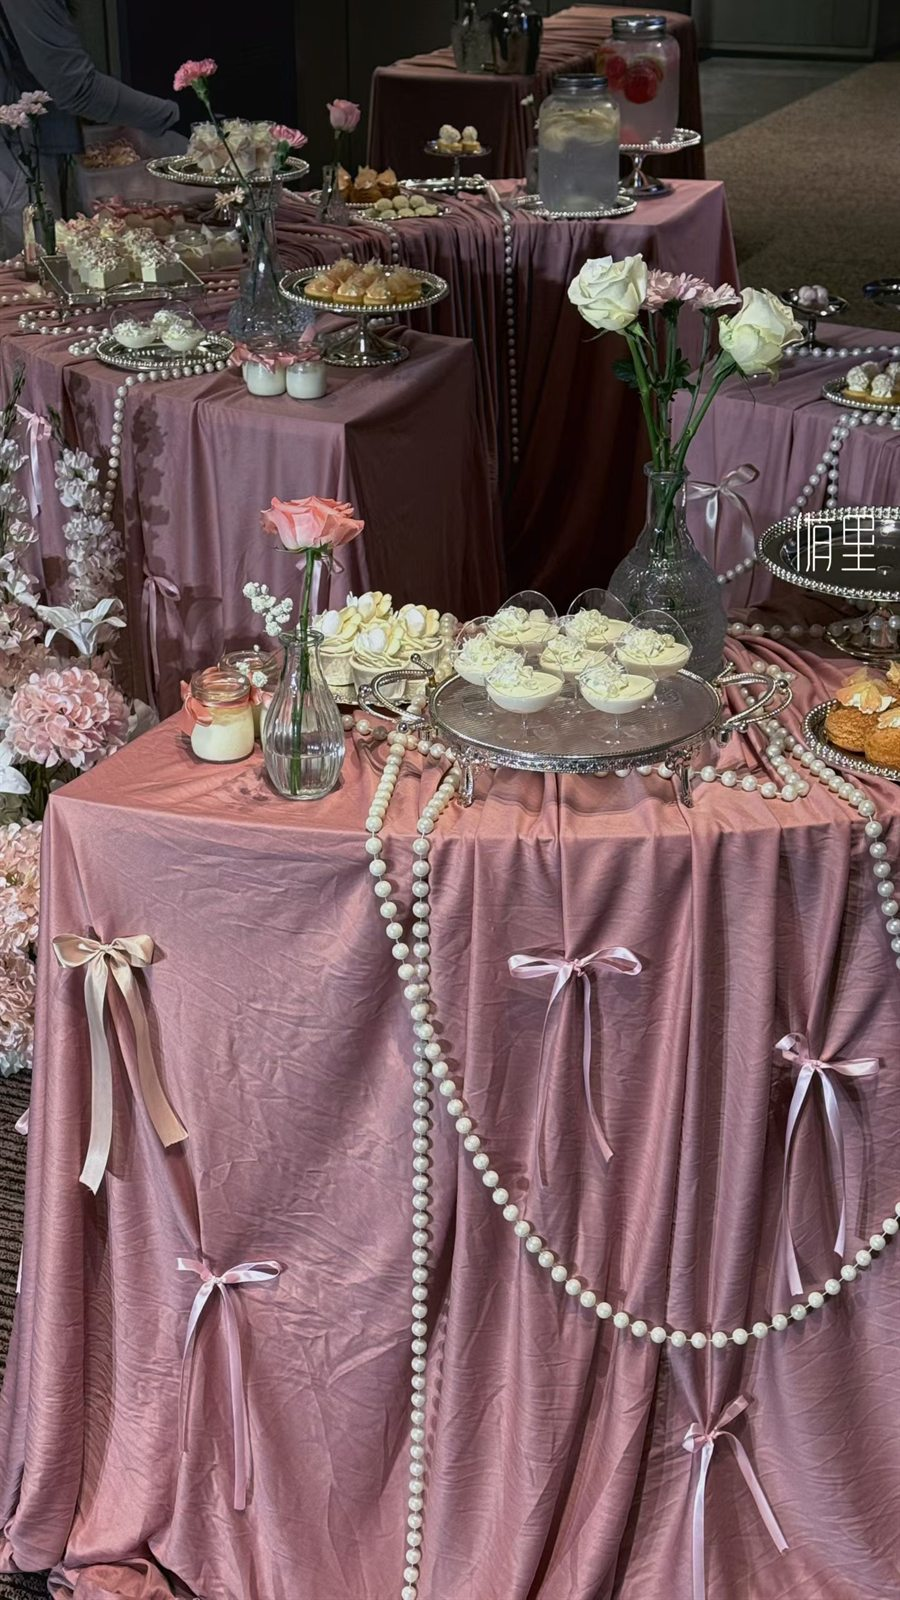
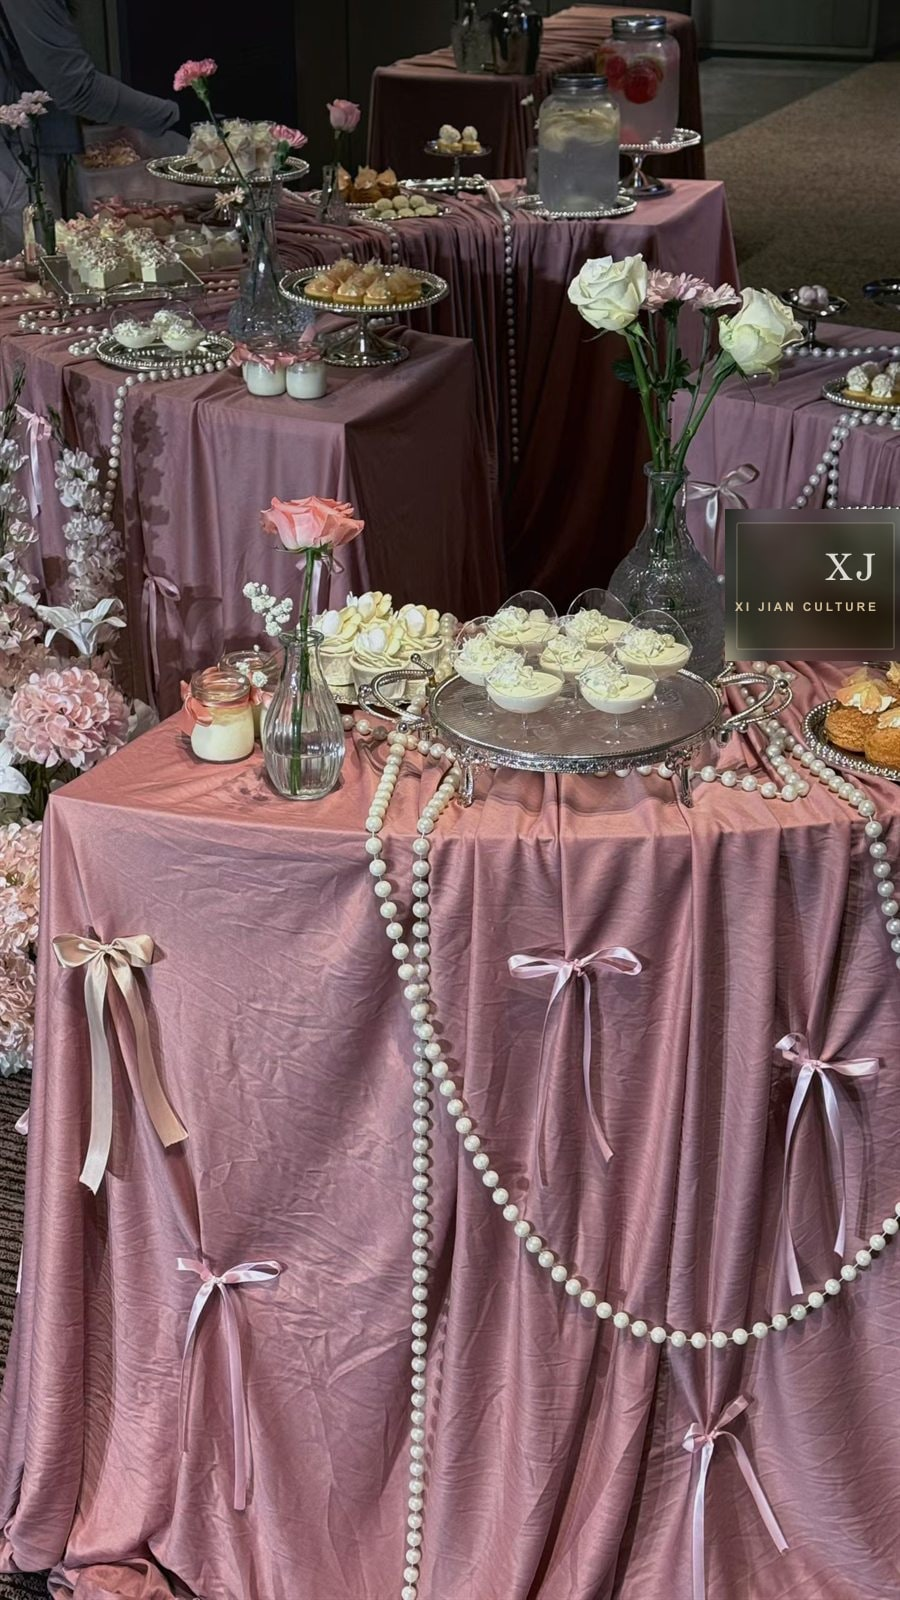
Add image-led service navigation

Changed region(s): [[0.8089, 0.3125, 1.0, 0.4375]]

diff --git a/styles.css b/styles.css
@@ -1305,7 +1305,7 @@ h3 {
 
 .hero-content {
   display: grid;
-  grid-template-columns: minmax(0, 1fr) minmax(22rem, 0.48fr);
+  grid-template-columns: minmax(0, 0.82fr) minmax(34rem, 0.72fr);
   gap: 2rem;
   align-items: end;
   padding-bottom: 3rem;
@@ -1358,22 +1358,70 @@ h3 {
   position: relative;
   display: grid;
   grid-template-columns: repeat(2, minmax(0, 1fr));
-  gap: 0.55rem;
+  gap: 0.65rem;
 }
 
 .hero-service-links a {
+  position: relative;
   display: grid;
   gap: 0.15rem;
-  min-height: 4.35rem;
-  align-content: center;
+  min-height: 7.4rem;
+  align-content: end;
+  overflow: hidden;
   border: 1px solid rgba(255, 253, 248, 0.16);
   border-radius: 0.45rem;
-  padding: 0.72rem;
-  background: rgba(255, 253, 248, 0.07);
+  padding: 0.85rem;
+  background: rgba(255, 253, 248, 0.08);
+  isolation: isolate;
   transition:
     transform 180ms ease,
     border-color 180ms ease,
     background 180ms ease;
+  animation: serviceCardBreathe 5.8s ease-in-out infinite;
+}
+
+.hero-service-links a:nth-child(2n) {
+  animation-delay: 0.7s;
+}
+
+.hero-service-links a:nth-child(3n) {
+  animation-delay: 1.2s;
+}
+
+.hero-service-links img {
+  position: absolute;
+  inset: 0;
+  z-index: -2;
+  width: 100%;
+  height: 100%;
+  object-fit: cover;
+  filter: saturate(0.92) contrast(1.04) brightness(0.68);
+  transform: scale(1.02);
+  transition: transform 700ms ease, filter 700ms ease;
+}
+
+.hero-service-links a::before {
+  position: absolute;
+  inset: 0;
+  z-index: -1;
+  background:
+    linear-gradient(180deg, rgba(20, 24, 22, 0.1), rgba(20, 24, 22, 0.78)),
+    linear-gradient(90deg, rgba(20, 24, 22, 0.55), rgba(20, 24, 22, 0.08));
+  content: "";
+}
+
+.hero-service-links a::after {
+  position: absolute;
+  right: 0.75rem;
+  top: 0.7rem;
+  color: rgba(244, 223, 183, 0.82);
+  content: "→";
+  font-weight: 800;
+  opacity: 0;
+  transform: translateX(-0.25rem);
+  transition:
+    opacity 180ms ease,
+    transform 180ms ease;
 }
 
 .hero-service-links a:hover,
@@ -1383,12 +1431,34 @@ h3 {
   transform: translateY(-2px);
 }
 
-.hero-service-links strong,
+.hero-service-links a:hover img,
+.hero-service-links a:focus-visible img {
+  filter: saturate(1.04) contrast(1.06) brightness(0.78);
+  transform: scale(1.07);
+}
+
+.hero-service-links a:hover::after,
+.hero-service-links a:focus-visible::after {
+  opacity: 1;
+  transform: translateX(0);
+}
+
+.hero-service-links strong {
+  color: var(--paper);
+  font-size: 1rem;
+  text-shadow: 0 0.45rem 1rem rgba(0, 0, 0, 0.36);
+}
+
 .service-map-grid strong {
   font-size: 0.96rem;
 }
 
-.hero-service-links span,
+.hero-service-links span {
+  color: rgba(255, 253, 248, 0.72);
+  font-size: 0.78rem;
+  text-shadow: 0 0.35rem 0.9rem rgba(0, 0, 0, 0.32);
+}
+
 .service-map-grid span {
   color: rgba(255, 253, 248, 0.68);
   font-size: 0.78rem;
@@ -1604,6 +1674,17 @@ h3 {
   100% {
     opacity: 0;
     transform: translateX(24%);
+  }
+}
+
+@keyframes serviceCardBreathe {
+  0%, 100% {
+    box-shadow: inset 0 1px 0 rgba(255, 253, 248, 0.08);
+  }
+  50% {
+    box-shadow:
+      inset 0 1px 0 rgba(255, 253, 248, 0.16),
+      0 0.7rem 1.5rem rgba(0, 0, 0, 0.16);
   }
 }
 

diff --git a/index.html b/index.html
@@ -112,14 +112,38 @@
 
           <aside class="hero-service-panel" aria-label="快速选择婚礼服务" data-reveal>
             <span class="panel-kicker">快速入口</span>
-            <h2>先从最关心的服务开始</h2>
+            <h2>六大业务，按需求直接进入</h2>
             <div class="hero-service-links">
-              <a href="#service-hall"><strong>婚礼堂</strong><span>看场地、桌数与档期</span></a>
-              <a href="#service-custom"><strong>高端定制婚礼</strong><span>方案、预算与主题</span></a>
-              <a href="#service-dress"><strong>婚纱礼服</strong><span>主纱、出门纱、敬酒服</span></a>
-              <a href="#service-makeup"><strong>化妆造型</strong><span>新娘跟妆、妈妈妆、伴娘妆</span></a>
-              <a href="#service-photo"><strong>摄影摄像</strong><span>跟拍、婚礼电影、快剪</span></a>
-              <a href="#service-host"><strong>婚礼主持</strong><span>仪式节奏与现场控场</span></a>
+              <a href="#service-hall">
+                <img src="assets/real/hall-gilded-stage.jpg" alt="" loading="eager" />
+                <strong>婚礼堂</strong>
+                <span>看场地、桌数与档期</span>
+              </a>
+              <a href="#service-custom">
+                <img src="assets/real/case-crystal-aisle.jpg" alt="" loading="eager" />
+                <strong>高端定制婚礼</strong>
+                <span>方案、预算与主题</span>
+              </a>
+              <a href="#service-dress">
+                <img src="assets/bridal/bridal-hero-couture.jpg" alt="" loading="eager" />
+                <strong>婚纱礼服</strong>
+                <span>主纱、出门纱、敬酒服</span>
+              </a>
+              <a href="#service-makeup">
+                <img src="assets/bridal/bridal-soft-silhouette.jpg" alt="" loading="eager" />
+                <strong>化妆造型</strong>
+                <span>新娘跟妆、妈妈妆、伴娘妆</span>
+              </a>
+              <a href="#service-photo">
+                <img src="assets/real/production-light-test.jpg" alt="" loading="eager" />
+                <strong>摄影摄像</strong>
+                <span>跟拍、婚礼电影、快剪</span>
+              </a>
+              <a href="#service-host">
+                <img src="assets/real/hall-starlight-corridor.jpg" alt="" loading="eager" />
+                <strong>婚礼主持</strong>
+                <span>仪式节奏与现场控场</span>
+              </a>
             </div>
           </aside>
         </div>
@@ -275,19 +299,19 @@
               </div>
             </article>
             <article class="case-card">
-              <img src="assets/real/case-outdoor-courtyard.jpg" alt="庭院白色婚礼现场" loading="lazy" />
+              <img src="assets/real/hall-starlight-corridor.jpg" alt="星光长廊婚礼堂" loading="lazy" />
               <div>
-                <span>CASE 03 · 庭院仪式</span>
-                <h3>白色建筑婚礼</h3>
-                <p>建筑外立面、白色布幔和黑色通道，让日间仪式更干净。</p>
+                <span>CASE 03 · 迎宾动线</span>
+                <h3>星光长廊</h3>
+                <p>灯幕和拱形通道形成入场记忆点，也适合迎宾与影像取景。</p>
               </div>
             </article>
             <article class="case-card">
-              <img src="assets/real/case-couple-black-aisle.jpg" alt="新人在黑色镜面仪式通道牵手" loading="lazy" />
+              <img src="assets/real/production-light-test.jpg" alt="婚礼堂灯光与影像测试现场" loading="lazy" />
               <div>
-                <span>CASE 04 · 影像动线</span>
-                <h3>镜面入场</h3>
-                <p>为摄影摄像保留纵深、烛光和背影画面，仪式感更完整。</p>
+                <span>CASE 04 · 影像执行</span>
+                <h3>灯光影像测试</h3>
+                <p>正式开始前校准舞台色温、投影纹理和镜头明暗，让成片更稳定。</p>
               </div>
             </article>
             <article class="case-card">

diff --git a/articles/bridal-styling-checklist.html b/articles/bridal-styling-checklist.html
@@ -12,7 +12,7 @@
     <meta property="og:description" content="礼服、妆面、发型、婚礼堂灯光和摄影机位需要一起判断，避免婚礼当天风格割裂。" />
     <meta property="og:type" content="article" />
     <meta property="og:url" content="https://xuanfengshanghang1.github.io/-/articles/bridal-styling-checklist.html" />
-    <meta property="og:image" content="https://xuanfengshanghang1.github.io/-/assets/real/styling-bride-crystal.jpg" />
+    <meta property="og:image" content="https://xuanfengshanghang1.github.io/-/assets/bridal/bridal-soft-silhouette.jpg" />
     <title>试纱和新娘跟妆要提前确认什么？ | 禧见文化</title>
     <link rel="stylesheet" href="../styles.css" />
     <script type="application/ld+json">
@@ -21,7 +21,7 @@
         "@type": "Article",
         "headline": "试纱和新娘跟妆要提前确认什么？",
         "description": "禧见文化整理试纱、新娘跟妆、礼服搭配和婚礼堂场景统一的确认清单。",
-        "image": "https://xuanfengshanghang1.github.io/-/assets/real/styling-bride-crystal.jpg",
+        "image": "https://xuanfengshanghang1.github.io/-/assets/bridal/bridal-soft-silhouette.jpg",
         "datePublished": "2026-06-27",
         "dateModified": "2026-06-27",
         "author": { "@type": "Organization", "name": "禧见文化" },
@@ -56,7 +56,7 @@
           <p>礼服和妆造不能脱离婚礼堂场景。灯光、通道、摄影机位和仪式流程都会影响最终呈现。</p>
           <span class="article-meta">更新于 2026-06-27 · 阅读约 3 分钟</span>
         </div>
-        <img src="../assets/real/styling-bride-crystal.jpg" alt="新娘婚纱礼服和水晶婚礼堂场景" />
+        <img src="../assets/bridal/bridal-soft-silhouette.jpg" alt="新娘妆造与婚纱礼服细节" />
       </section>
 
       <section class="article-layout section-wrap">

diff --git a/articles/photo-video-hosting.html b/articles/photo-video-hosting.html
@@ -12,7 +12,7 @@
     <meta property="og:description" content="主持节奏、机位、灯光和新人动线需要提前统一，婚礼当天才不会互相打架。" />
     <meta property="og:type" content="article" />
     <meta property="og:url" content="https://xuanfengshanghang1.github.io/-/articles/photo-video-hosting.html" />
-    <meta property="og:image" content="https://xuanfengshanghang1.github.io/-/assets/real/case-couple-black-aisle.jpg" />
+    <meta property="og:image" content="https://xuanfengshanghang1.github.io/-/assets/real/production-light-test.jpg" />
     <title>摄影摄像主持怎么配合，仪式感才完整？ | 禧见文化</title>
     <link rel="stylesheet" href="../styles.css" />
     <script type="application/ld+json">
@@ -21,7 +21,7 @@
         "@type": "Article",
         "headline": "摄影摄像主持怎么配合，仪式感才完整？",
         "description": "禧见文化说明婚礼摄影摄像、主持、灯光、音乐和新人动线的协作方法。",
-        "image": "https://xuanfengshanghang1.github.io/-/assets/real/case-couple-black-aisle.jpg",
+        "image": "https://xuanfengshanghang1.github.io/-/assets/real/production-light-test.jpg",
         "datePublished": "2026-06-27",
         "dateModified": "2026-06-27",
         "author": { "@type": "Organization", "name": "禧见文化" },
@@ -56,7 +56,7 @@
           <p>婚礼仪式不是单靠主持或摄影完成。节奏、机位、灯光、音乐和动线要提前对齐。</p>
           <span class="article-meta">更新于 2026-06-27 · 阅读约 3 分钟</span>
         </div>
-        <img src="../assets/real/case-couple-black-aisle.jpg" alt="新人在婚礼通道牵手入场" />
+        <img src="../assets/real/production-light-test.jpg" alt="婚礼堂灯光与影像测试现场" />
       </section>
 
       <section class="article-layout section-wrap">

diff --git a/articles/index.html b/articles/index.html
@@ -88,7 +88,7 @@
             </article>
             <article class="article-list-card">
               <a href="bridal-styling-checklist.html">
-                <img src="../assets/real/styling-bride-crystal.jpg" alt="新娘试纱和跟妆清单" loading="lazy" />
+                <img src="../assets/bridal/bridal-soft-silhouette.jpg" alt="新娘试纱和跟妆清单" loading="lazy" />
                 <div>
                   <span>礼服妆造</span>
                   <h2>试纱和新娘跟妆要提前确认什么？</h2>
@@ -98,7 +98,7 @@
             </article>
             <article class="article-list-card">
               <a href="photo-video-hosting.html">
-                <img src="../assets/real/case-couple-black-aisle.jpg" alt="摄影摄像主持配合指南" loading="lazy" />
+                <img src="../assets/real/production-light-test.jpg" alt="摄影摄像主持配合指南" loading="lazy" />
                 <div>
                   <span>影像主持</span>
                   <h2>摄影摄像主持怎么配合，仪式感才完整？</h2>